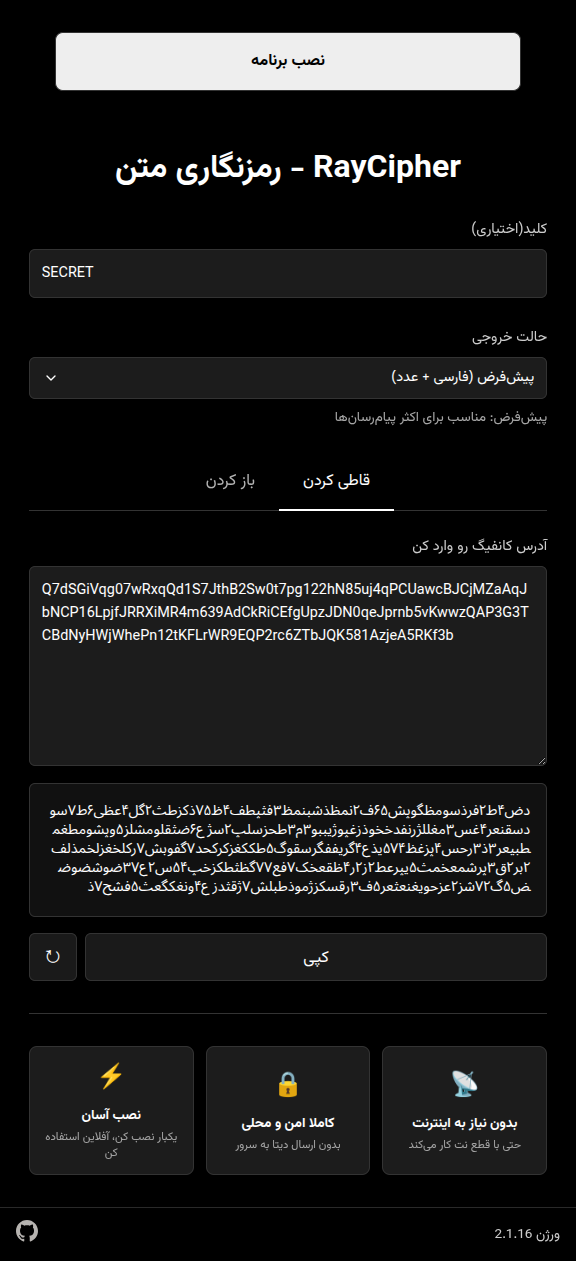
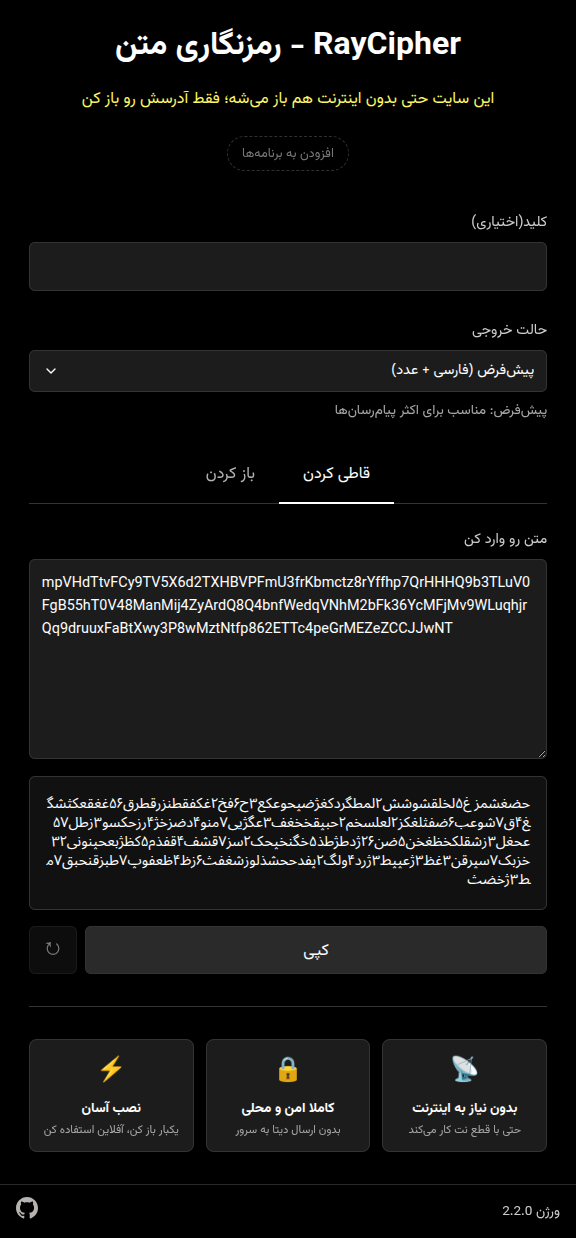
update header hint

diff --git a/style.css b/style.css
@@ -55,7 +55,7 @@ header h1 {
 }
 
 .settings {
-    margin-top: 1.5rem;
+    margin-top: 2rem;
     text-align: right;
 }
 
@@ -217,13 +217,21 @@ button:disabled {
 }
 
 #install-btn {
-    margin: 2rem 0;
-    width: 90%;
-    padding: 1rem 0;
-    font-weight: 600;
-    background: #eee;
-    color: #000;
-    border-radius: 8px;
+    margin: 0.5rem 0;
+    padding: 0.4rem 0.9rem;
+    font-size: 0.8rem;
+    font-weight: 400;
+    background: transparent;
+    color: #aaa;
+    border: 1px dashed #444;
+    border-radius: 999px;
+    opacity: 0.7;
+}
+
+#install-btn:hover {
+    opacity: 1;
+    color: #fff;
+    border-color: #666;
 }
 
 .footer {
@@ -362,4 +370,8 @@ select {
     background-size: 1rem;
     padding-left: 2.5rem;
     cursor: pointer;
+}
+
+.header-hint{
+    color: #fff865;
 }

diff --git a/index.html b/index.html
@@ -12,11 +12,11 @@
 
 <body>
 <div class="container">
-    <button id="install-btn" hidden>نصب برنامه</button>
 
     <header>
         <h1>RayCipher - رمزنگاری متن</h1>
-        <p>این صفحه بدون اینترنت و نصب باز می شود</p>
+        <p class="header-hint">این سایت حتی بدون اینترنت هم باز میشه؛ فقط آدرسش رو باز کن</p>
+        <button id="install-btn" hidden>افزودن به برنامهها</button>
     </header>
 
     <div class="settings">

diff --git a/sw.js b/sw.js
@@ -1,4 +1,4 @@
-const VERSION = "2.1.17";
+const VERSION = "2.2.0";
 const CACHE_NAME = `cipher-ray-${VERSION}`;
 
 self.addEventListener("install", event => {
